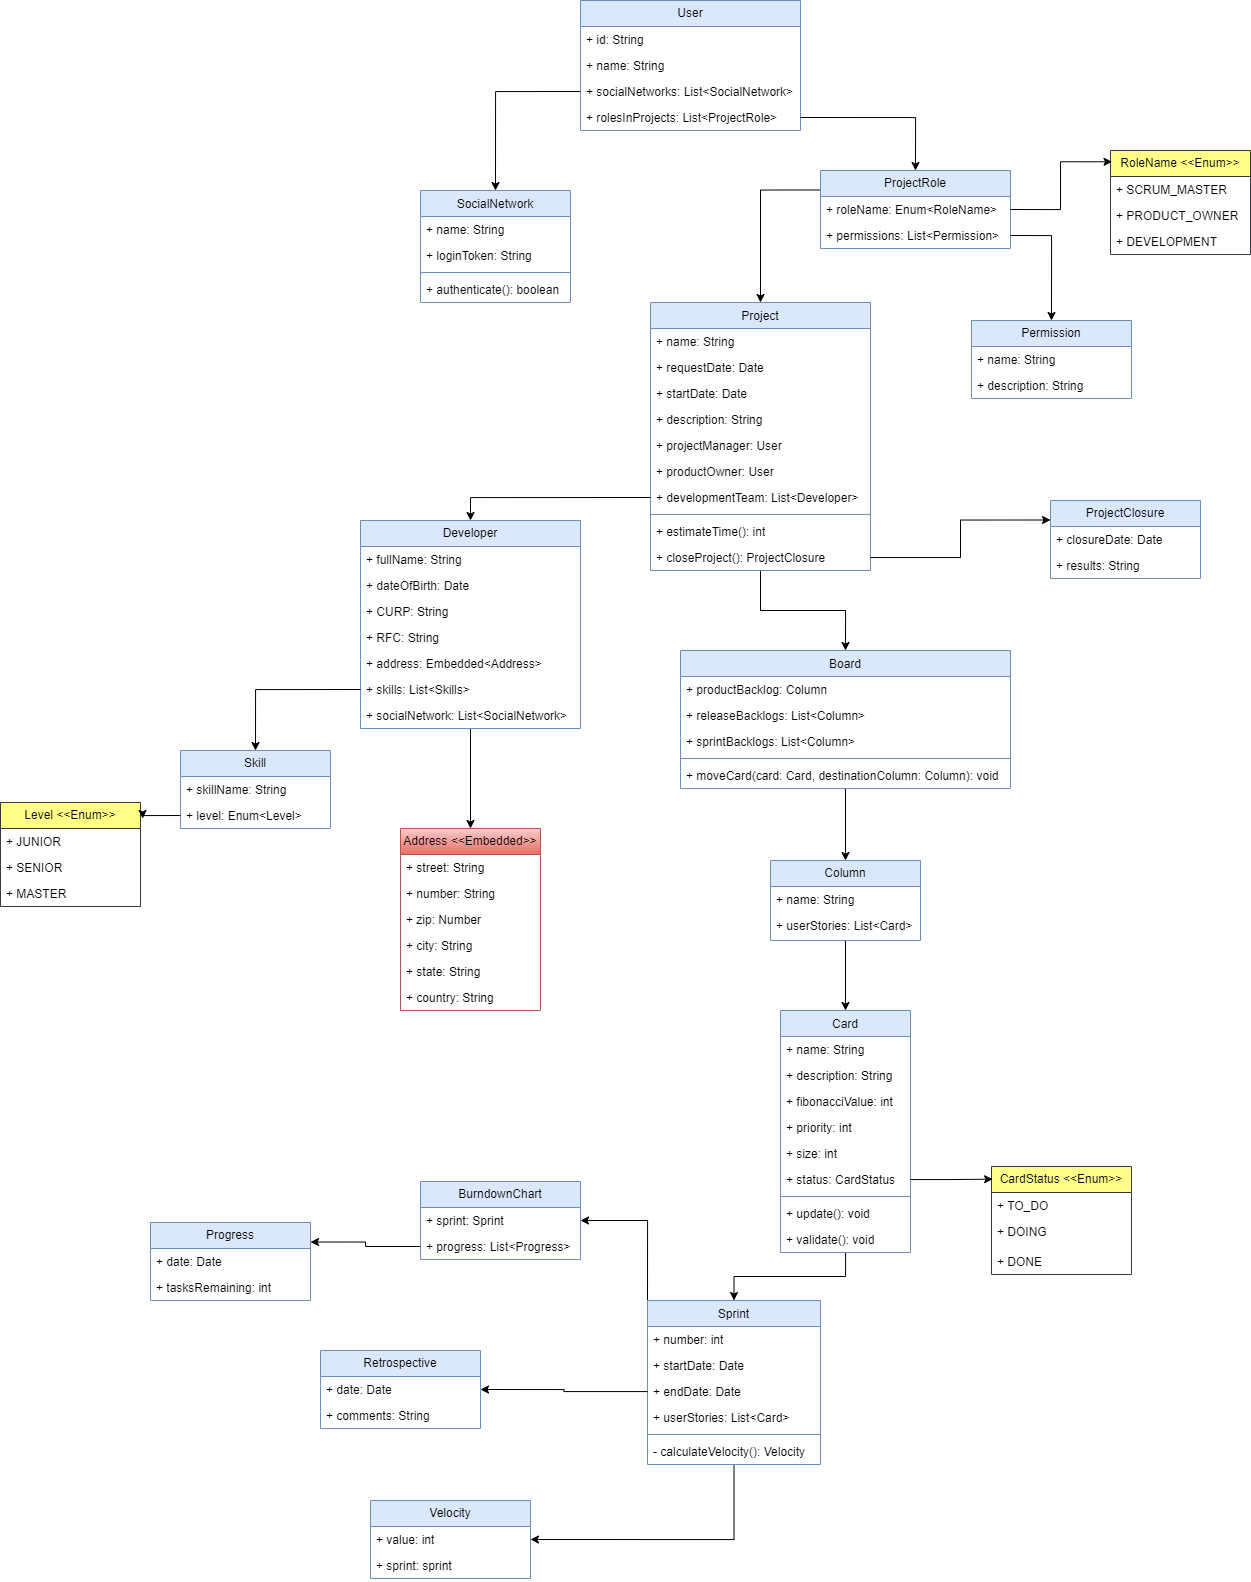
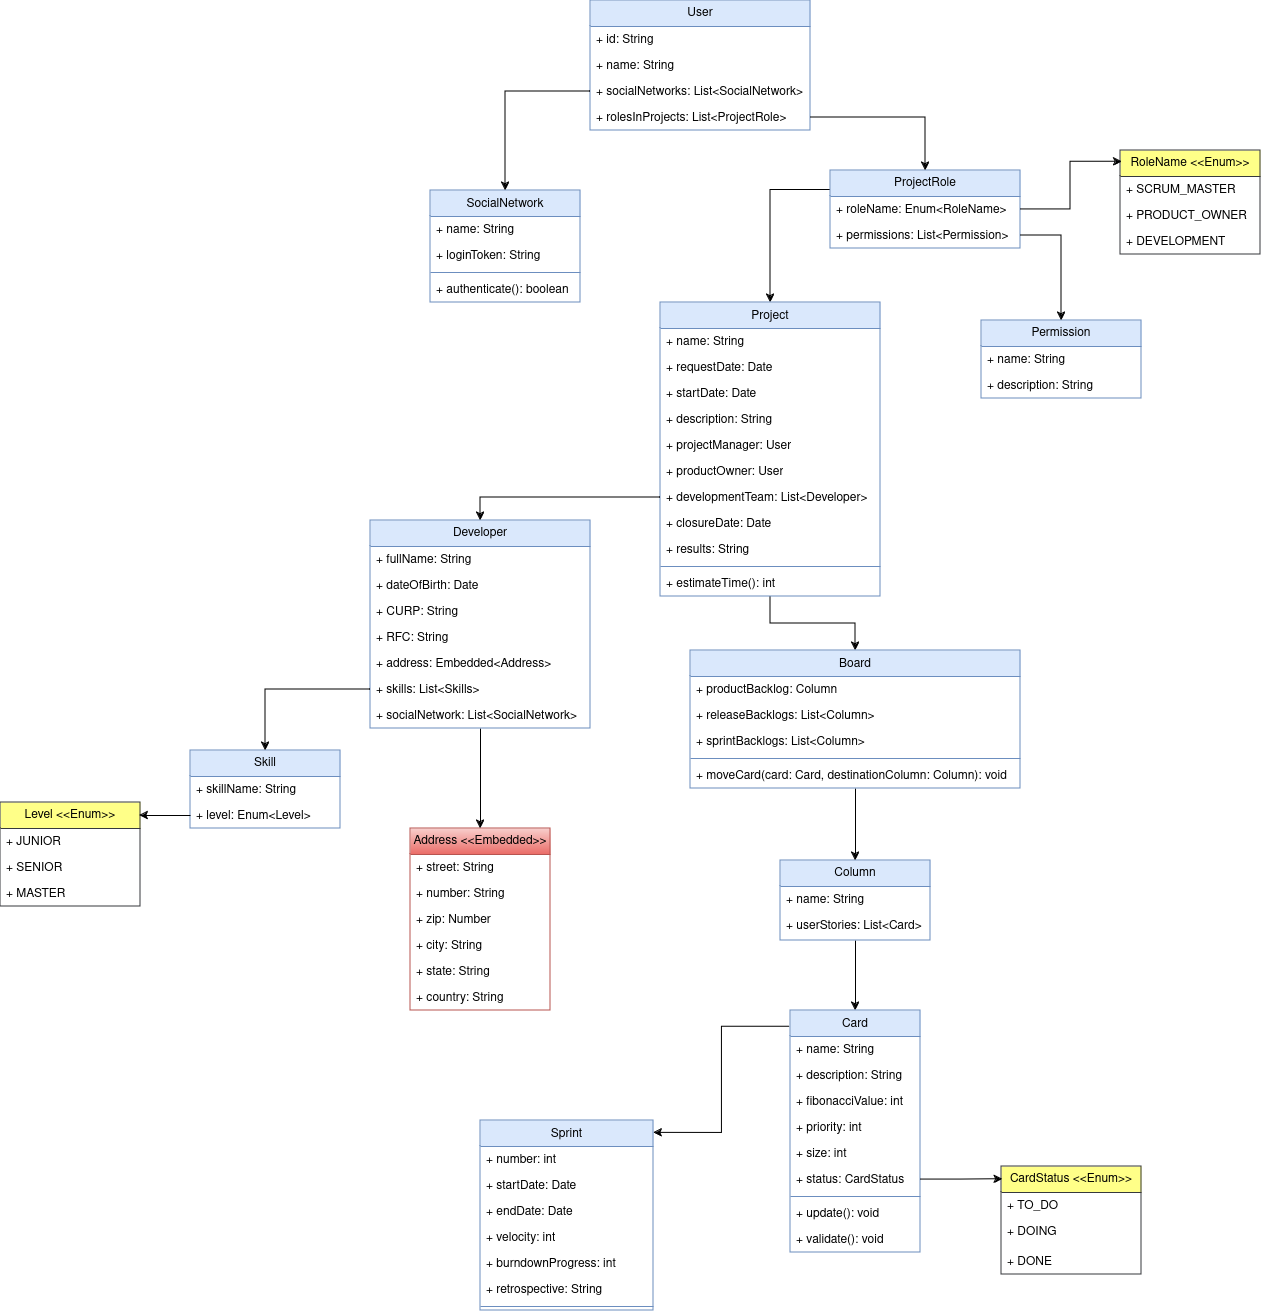
Se hacen cambios a la estructura del proyecto, se modifica el diagrama de clases y se agregan las funcionalidades para poder probar las rutas en postman u otras herramientas.

diff --git a/app.js b/app.js
@@ -1,13 +1,23 @@
-var createError = require('http-errors');
-var express = require('express');
-var path = require('path');
-var cookieParser = require('cookie-parser');
-var logger = require('morgan');
+const createError = require('http-errors');
+const express = require('express');
+const path = require('path');
+const cookieParser = require('cookie-parser');
+const logger = require('morgan');
 
-var indexRouter = require('./routes/index');
-var usersRouter = require('./routes/users');
+const indexRouter = require('./routes/index');
+const usersRouter = require('./routes/users');
+const boardsRouter = require('./routes/boards');
+const cardsRouter = require('./routes/cards');
+const columnsRouter = require('./routes/columns');
+const developersRouter = require('./routes/developers');
+const permissionsRouter = require('./routes/permissions');
+const projectRolesRouter = require('./routes/projectRoles');
+const projectsRouter = require('./routes/projects');
+const skillsRouter = require('./routes/skills');
+const socialNetworksRouter = require('./routes/socialNetworks');
+const sprintsRouter = require('./routes/sprints');
 
-var app = express();
+const app = express();
 
 // view engine setup
 app.set('views', path.join(__dirname, 'views'));
@@ -21,6 +31,16 @@ app.use(express.static(path.join(__dirname, 'public')));
 
 app.use('/', indexRouter);
 app.use('/users', usersRouter);
+app.use('/boards', boardsRouter);
+app.use('/cards', cardsRouter);
+app.use('/columns', columnsRouter);
+app.use('/developers', developersRouter);
+app.use('/permissions', permissionsRouter);
+app.use('/projectRoles', projectRolesRouter);
+app.use('/projects', projectsRouter);
+app.use('/skills', skillsRouter);
+app.use('/socialNetworks', socialNetworksRouter);
+app.use('/sprints', sprintsRouter);
 
 // catch 404 and forward to error handler
 app.use(function(req, res, next) {

diff --git a/controllers/socialNetworks.js b/controllers/socialNetworks.js
@@ -1,23 +1,23 @@
 const express = require('express');
 
 function create(req, res, next) {
-    res.send(`POST => /projects/ => ${req.body.name}`);
+    res.send(`POST => /socialNetworks/ => ${req.body.name}`);
 }
 
 function list(req, res, next) {
-    res.send('GET => /projects/');
+    res.send('GET => /socialNetworks/');
 }
 
 function index(req, res, next) {
-    res.send(`GET => /projects/${req.params.id}`);
+    res.send(`GET => /socialNetworks/${req.params.id}`);
 }
 
 function update(req, res, next) {
-    res.send('PUT => /projects/:id');
+    res.send('PUT => /socialNetworks/:id');
 }
 
 function destroy(req, res, next) {
-    res.send('DELETE => /projects/:id');
+    res.send('DELETE => /socialNetworks/:id');
 }
 
 module.exports = {create, list, index, update, destroy};

diff --git a/controllers/projectRoles.js b/controllers/projectRoles.js
@@ -1,23 +1,23 @@
 const express = require('express');
 
 function create(req, res, next) {
-    res.send(`POST => /projects/ => ${req.body.name}`);
+    res.send(`POST => /projectRoles/ => ${req.body.roleName}`);
 }
 
 function list(req, res, next) {
-    res.send('GET => /projects/');
+    res.send('GET => /projectRoles/');
 }
 
 function index(req, res, next) {
-    res.send(`GET => /projects/${req.params.id}`);
+    res.send(`GET => /projectRoles/${req.params.id}`);
 }
 
 function update(req, res, next) {
-    res.send('PUT => /projects/:id');
+    res.send('PUT => /projectRoles/:id');
 }
 
 function destroy(req, res, next) {
-    res.send('DELETE => /projects/:id');
+    res.send('DELETE => /projectRoles/:id');
 }
 
 module.exports = {create, list, index, update, destroy};

diff --git a/controllers/permissions.js b/controllers/permissions.js
@@ -1,23 +1,23 @@
 const express = require('express');
 
 function create(req, res, next) {
-    res.send(`POST => /projects/ => ${req.body.name}`);
+    res.send(`POST => /permissions/ => ${req.body.name}`);
 }
 
 function list(req, res, next) {
-    res.send('GET => /projects/');
+    res.send('GET => /permissions/');
 }
 
 function index(req, res, next) {
-    res.send(`GET => /projects/${req.params.id}`);
+    res.send(`GET => /permissions/${req.params.id}`);
 }
 
 function update(req, res, next) {
-    res.send('PUT => /projects/:id');
+    res.send('PUT => /permissions/:id');
 }
 
 function destroy(req, res, next) {
-    res.send('DELETE => /projects/:id');
+    res.send('DELETE => /permissions/:id');
 }
 
 module.exports = {create, list, index, update, destroy};

diff --git a/routes/permissions.js b/routes/permissions.js
@@ -1,20 +1,20 @@
 const express = require('express');
 const router = express.Router();
-const controller = require('../controllers/retrospectives');
+const controller = require('../controllers/permissions');
 
-/* POST create retrospective. */
+/* POST create permission. */
 router.post('/', controller.create);
 
-/* GET retrospectives listing. */
+/* GET permissions listing. */
 router.get('/', controller.list);
 
-/* GET retrospective by id. */
+/* GET permission by id. */
 router.get('/:id', controller.index);
 
-/* PUT update retrospective by id. */
+/* PUT update permission by id. */
 router.put('/:id', controller.update);
 
-/* DELETE retrospective by id. */
+/* DELETE permission by id. */
 router.delete('/:id', controller.destroy);
 
 module.exports = router;

diff --git a/controllers/columns.js b/controllers/columns.js
@@ -1,23 +1,23 @@
 const express = require('express');
 
 function create(req, res, next) {
-    res.send(`POST => /projects/ => ${req.body.name}`);
+    res.send(`POST => /columns/ => ${req.body.name}`);
 }
 
 function list(req, res, next) {
-    res.send('GET => /projects/');
+    res.send('GET => /columns/');
 }
 
 function index(req, res, next) {
-    res.send(`GET => /projects/${req.params.id}`);
+    res.send(`GET => /columns/${req.params.id}`);
 }
 
 function update(req, res, next) {
-    res.send('PUT => /projects/:id');
+    res.send('PUT => /columns/:id');
 }
 
 function destroy(req, res, next) {
-    res.send('DELETE => /projects/:id');
+    res.send('DELETE => /columns/:id');
 }
 
 module.exports = {create, list, index, update, destroy};

diff --git a/routes/columns.js b/routes/columns.js
@@ -1,20 +1,20 @@
 const express = require('express');
 const router = express.Router();
-const controller = require('../controllers/burndowncharts');
+const controller = require('../controllers/columns');
 
-/* POST create burndown chart. */
+/* POST create column. */
 router.post('/', controller.create);
 
-/* GET burndown charts listing. */
+/* GET columns listing. */
 router.get('/', controller.list);
 
-/* GET burndown chart by id. */
+/* GET column by id. */
 router.get('/:id', controller.index);
 
-/* PUT update burndown chart by id. */
+/* PUT update column by id. */
 router.put('/:id', controller.update);
 
-/* DELETE burndown chart by id. */
+/* DELETE column by id. */
 router.delete('/:id', controller.destroy);
 
 module.exports = router;

diff --git a/routes/socialNetworks.js b/routes/socialNetworks.js
@@ -1,0 +1,20 @@
+const express = require('express');
+const router = express.Router();
+const controller = require('../controllers/socialNetworks');
+
+/* POST create socialNetwork. */
+router.post('/', controller.create);
+
+/* GET socialNetworks listing. */
+router.get('/', controller.list);
+
+/* GET socialNetwork by id. */
+router.get('/:id', controller.index);
+
+/* PUT update socialNetwork by id. */
+router.put('/:id', controller.update);
+
+/* DELETE socialNetwork by id. */
+router.delete('/:id', controller.destroy);
+
+module.exports = router;

diff --git a/routes/projectRoles.js b/routes/projectRoles.js
@@ -1,0 +1,20 @@
+const express = require('express');
+const router = express.Router();
+const controller = require('../controllers/projectRoles');
+
+/* POST create projectRole. */
+router.post('/', controller.create);
+
+/* GET projectRoles listing. */
+router.get('/', controller.list);
+
+/* GET projectRole by id. */
+router.get('/:id', controller.index);
+
+/* PUT update projectRole by id. */
+router.put('/:id', controller.update);
+
+/* DELETE projectRole by id. */
+router.delete('/:id', controller.destroy);
+
+module.exports = router;

diff --git a/controllers/developers.js b/controllers/developers.js
@@ -1,3 +1,5 @@
+const express = require('express');
+
 function create(req, res, next) {
     res.send(`POST => /developers/ => ${req.body.fullname}`);
 }

diff --git a/controllers/skills.js b/controllers/skills.js
@@ -1,3 +1,5 @@
+const express = require('express');
+
 function create(req, res, next) {
     res.send(`POST => /skills/ => ${req.body.skillName}`);
 }

diff --git a/controllers/sprints.js b/controllers/sprints.js
@@ -1,3 +1,5 @@
+const express = require('express');
+
 function create(req, res, next) {
     res.send(`POST => /sprints/ => ${req.body.number}`);
 }
